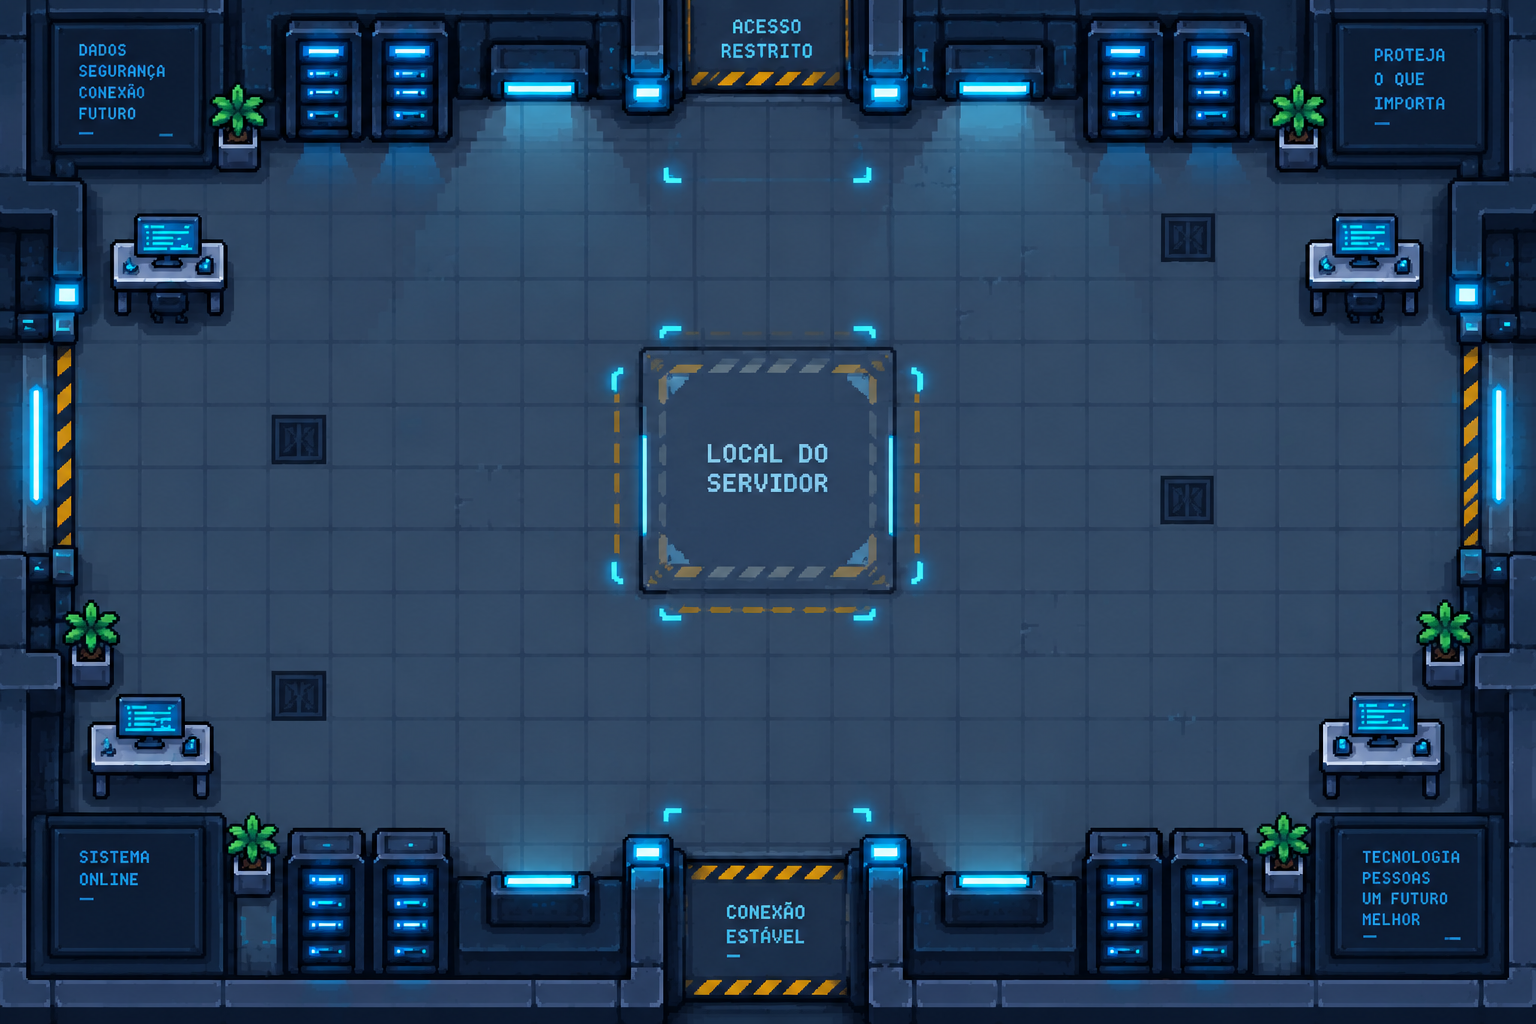
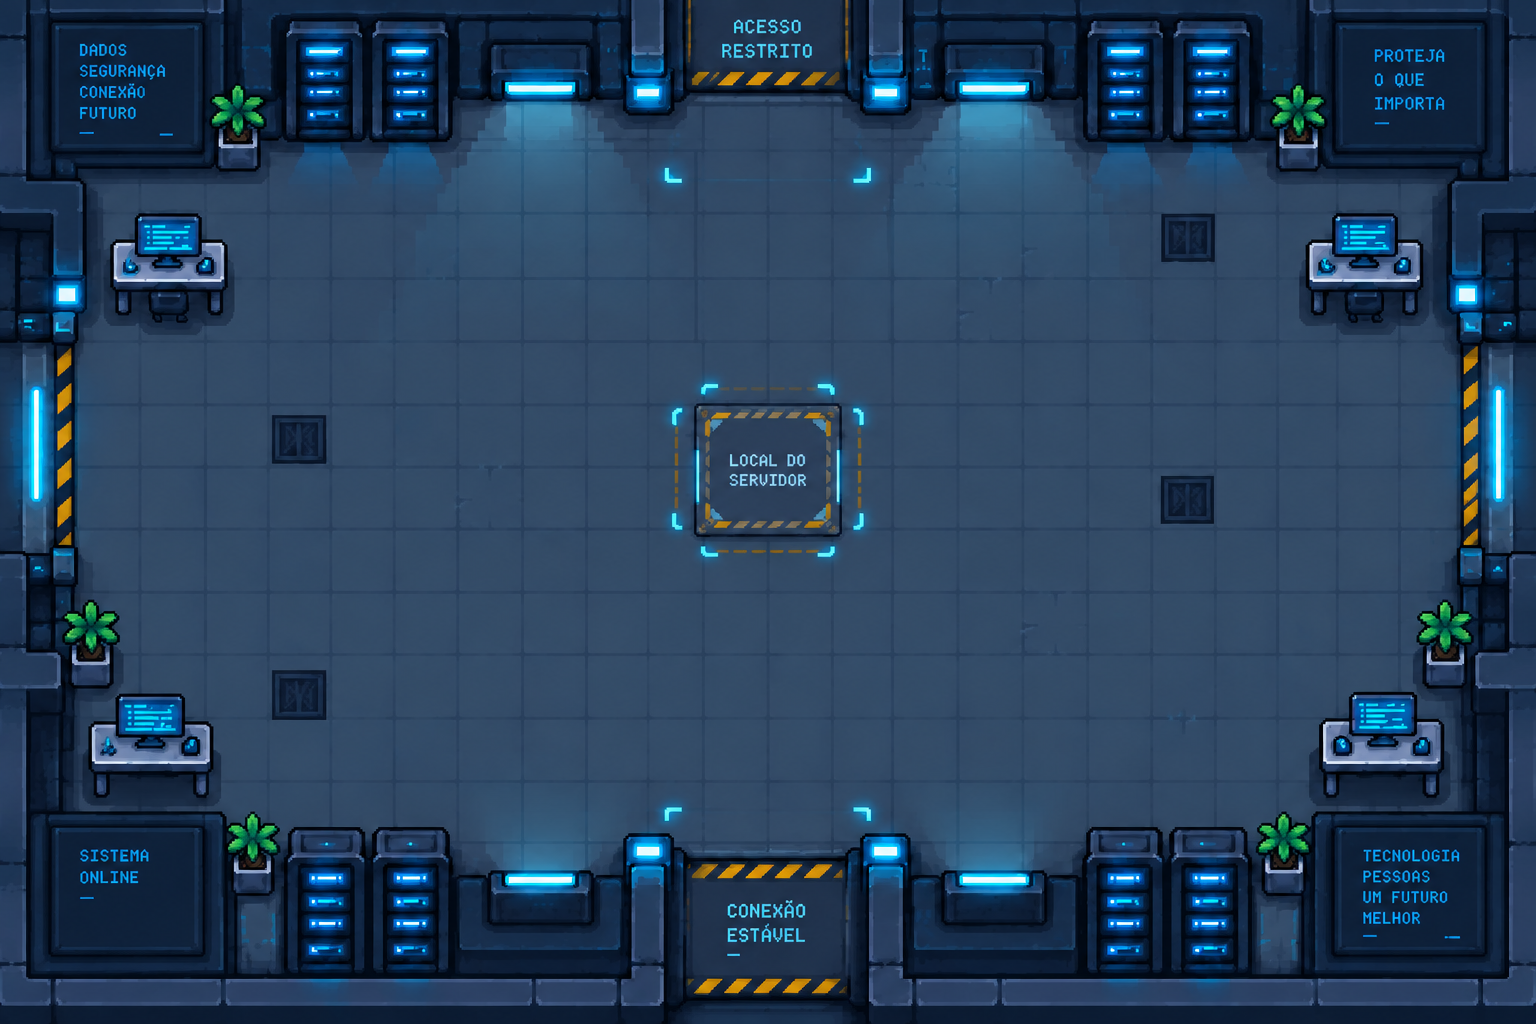
Ajuste do mapa com o tamanho do servidor

diff --git a/sketch.js b/sketch.js
@@ -20,6 +20,13 @@ let cavaloSprites = {
   baixo: []
 };
 
+let servidorsprites = {
+  frame1: [],
+  frame2: [],
+  frame3: [],
+  frame4: []
+}
+
 let tempoInicioJogo;
 let tempoUltimoSpawn = 0;
 let maxCavalos = 8;
@@ -52,7 +59,7 @@ class Hitbox {
 
 function preload() {
 
-  cenario = loadImage("Assets/cenário/cenario.png");
+  cenario = loadImage("Assets/cenário/Cenario.png");
   fonte = loadFont("Assets/font/PixelifySans-VariableFont_wght.ttf");
   backmenu = loadImage("Assets/cenário/menu.png");
 
@@ -180,18 +187,18 @@ function setup() {
 function criarCavalo() {
 
   let locaisSpawn = [
-    { x: 0, y: 220},
+    { x: 0, y: 210},
     { x: 0, y: 240 },
-    { x: 0, y: 260},
-    { x: width, y: 220 },
+    { x: 0, y: 270},
+    { x: width, y: 210 },
     { x: width, y: 240 },
-    { x: width, y: 260 },
-    { x: 689, y: 0 },
+    { x: width, y: 270 },
+    { x: 679, y: 0 },
     { x: 709, y: 0 },
-    { x: 729, y: 0 },
-    { x: 689, y: height },
+    { x: 739, y: 0 },
+    { x: 679, y: height },
     { x: 709, y: height },
-    { x: 729, y: height }
+    { x: 739, y: height }
   ];
 
   let local = random(locaisSpawn);

diff --git a/inimigo.js b/inimigo.js
@@ -6,7 +6,7 @@ class Inimigo {
     this.largura = 100;
     this.altura = 100;
 
-    this.velocidade = 1.5;
+    this.velocidade = 1;
 
     this.direcao = "direita";
     this.andando = true;
